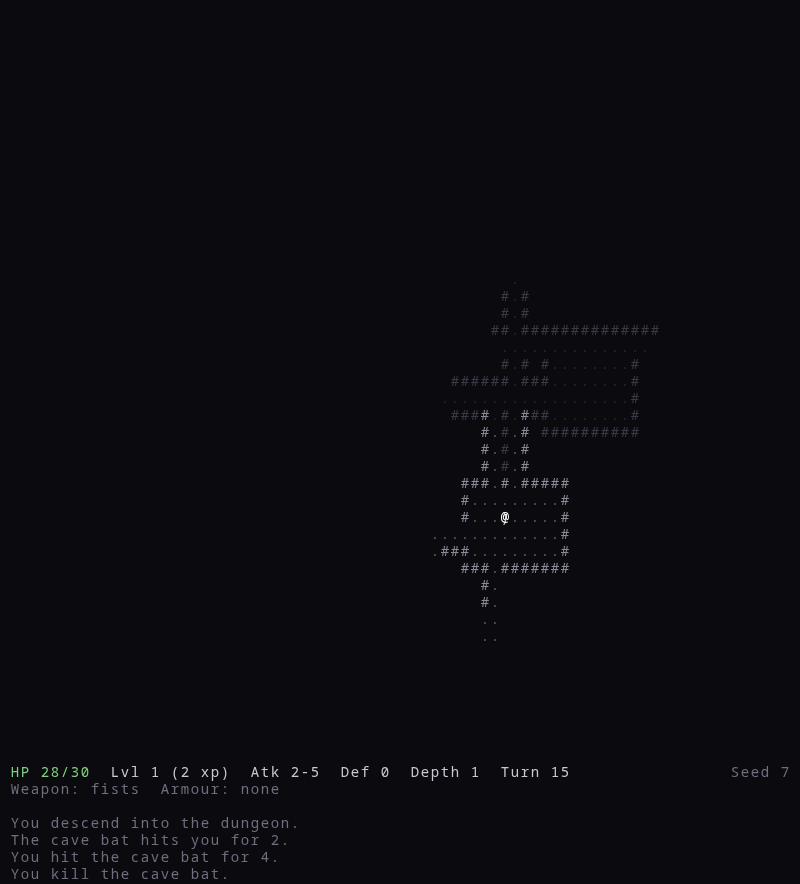
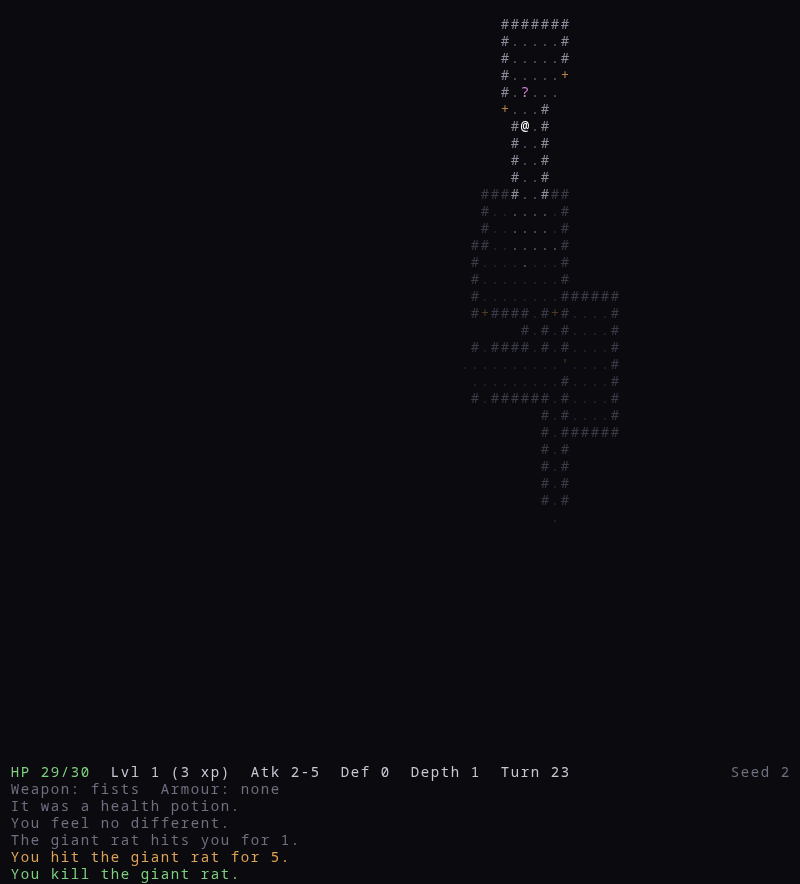
docs: recapture the screenshots for the finished game
The balance bot's decisions for seed 2 (a win) and seed 1 (starving on
depth 7) are turned into key presses and fed to the real build in a
headless browser. The set now shows the title screen, a cavern level,
doors, a known trap, a full pack with a readied bow, and the end
screens with the best runs.

diff --git a/README.md b/README.md
@@ -13,25 +13,29 @@ and runs without a browser.
 
 ## Screenshots
 
-All captures come from real runs of the build in this repository, driven by a
-scripted player through a headless browser. Seed 7 is a winning run; seed 20
-dies to the Warden.
+All captures come from real runs of the build in this repository: the balance
+bot's decisions for a seed are turned into key presses and fed to the game in a
+headless browser. Seed 2 is a winning run; seed 1 starves on depth 7.
 
-| Depth 1, turn 0 (`?seed=7`)                                                         | Help screen                                                         |
-| ----------------------------------------------------------------------------------- | ------------------------------------------------------------------- |
-| ![The first room, lit by the player's field of view](docs/screenshots/01-start.png) | ![The help overlay listing every key](docs/screenshots/02-help.png) |
+| Title screen                                                          | Depth 1, turn 0 (`?seed=2`)                                                         |
+| --------------------------------------------------------------------- | ----------------------------------------------------------------------------------- |
+| ![The title screen with the main keys](docs/screenshots/00-title.png) | ![The first room, lit by the player's field of view](docs/screenshots/01-start.png) |
 
-| First fight                                                           | Depth 5                                                            |
-| --------------------------------------------------------------------- | ------------------------------------------------------------------ |
-| ![Killing a cave bat with bare hands](docs/screenshots/03-combat.png) | ![Explored corridors shown dimmed](docs/screenshots/04-depth5.png) |
+| Help screen                                                         | First fight                                                                             |
+| ------------------------------------------------------------------- | --------------------------------------------------------------------------------------- |
+| ![The help overlay listing every key](docs/screenshots/02-help.png) | ![Killing a giant rat after drinking an unknown potion](docs/screenshots/03-combat.png) |
 
-| Depth 9                                                        | Inventory                                                                           |
-| -------------------------------------------------------------- | ----------------------------------------------------------------------------------- |
-| ![Arriving on the final level](docs/screenshots/05-depth9.png) | ![A full pack with wielded and worn gear marked](docs/screenshots/06-inventory.png) |
+| A cavern level                                                                          | Depth 5                                                                      |
+| --------------------------------------------------------------------------------------- | ---------------------------------------------------------------------------- |
+| ![An open cave with long sight lines and doors nowhere](docs/screenshots/04-cavern.png) | ![Rooms, doors, and a known trap on depth 5](docs/screenshots/05-depth5.png) |
 
-| Victory (seed 7)                                                                 | Death (seed 20)                                                        |
-| -------------------------------------------------------------------------------- | ---------------------------------------------------------------------- |
-| ![The victory summary after killing the Warden](docs/screenshots/07-victory.png) | ![The death summary on the final level](docs/screenshots/08-death.png) |
+| Depth 9                                                        | Inventory                                                                                     |
+| -------------------------------------------------------------- | --------------------------------------------------------------------------------------------- |
+| ![Arriving on the final level](docs/screenshots/06-depth9.png) | ![A full pack with wielded, worn, and readied gear marked](docs/screenshots/07-inventory.png) |
+
+| Victory (seed 2)                                                           | Death (seed 1)                                                                   |
+| -------------------------------------------------------------------------- | -------------------------------------------------------------------------------- |
+| ![The victory summary with the best runs](docs/screenshots/08-victory.png) | ![Starving on depth 7, with the best runs listed](docs/screenshots/09-death.png) |
 
 ## Playing it
 
